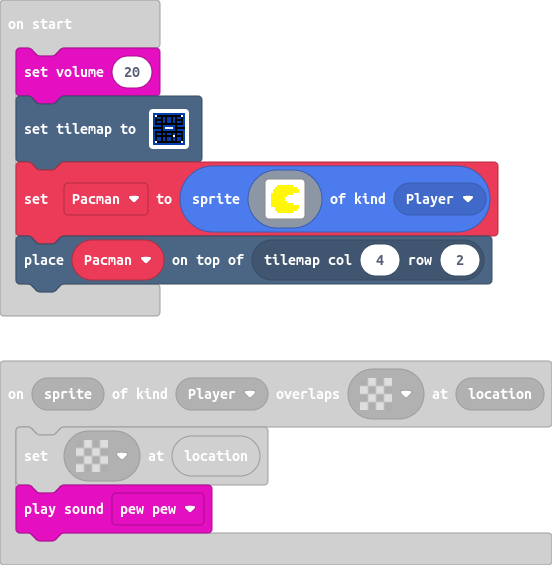
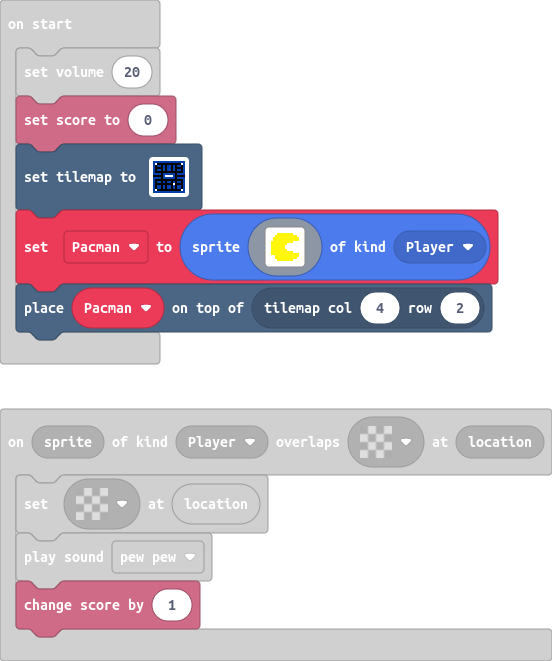
Change score when Pacman eats pellet.

Changed region(s): [[0.0, 0.6018, 1.0, 0.9628], [0.0, 0.0301, 0.9239, 0.5115], [0.0, 0.5115, 0.308, 0.5717]]

diff --git a/main.ts b/main.ts
@@ -60,8 +60,10 @@ namespace myTiles {
 scene.onOverlapTile(SpriteKind.Player, myTiles.tile2, function (sprite, location) {
     tiles.setTileAt(location, myTiles.tile0)
     music.pewPew.play()
+    info.changeScoreBy(1)
 })
 music.setVolume(20)
+info.setScore(0)
 tiles.setTilemap(tiles.createTilemap(
             hex`1000100001010101010101010101010101010101010002020202020202020202020200010102010102010201010201020101020101020202020102010102010202020201010201010201020101020102010102010102020202020202020202020202020101010101020101010101010201010101020202020201000000000102020202020101010102010101010101020101010101020202020202020202020202020201010201010201020101020102010102010102020202020202020200020202020101020101020102010102010201010201010201010201020101020102010102010100020202020202020202020202000101010101010101010101010101010101`,
             img`
